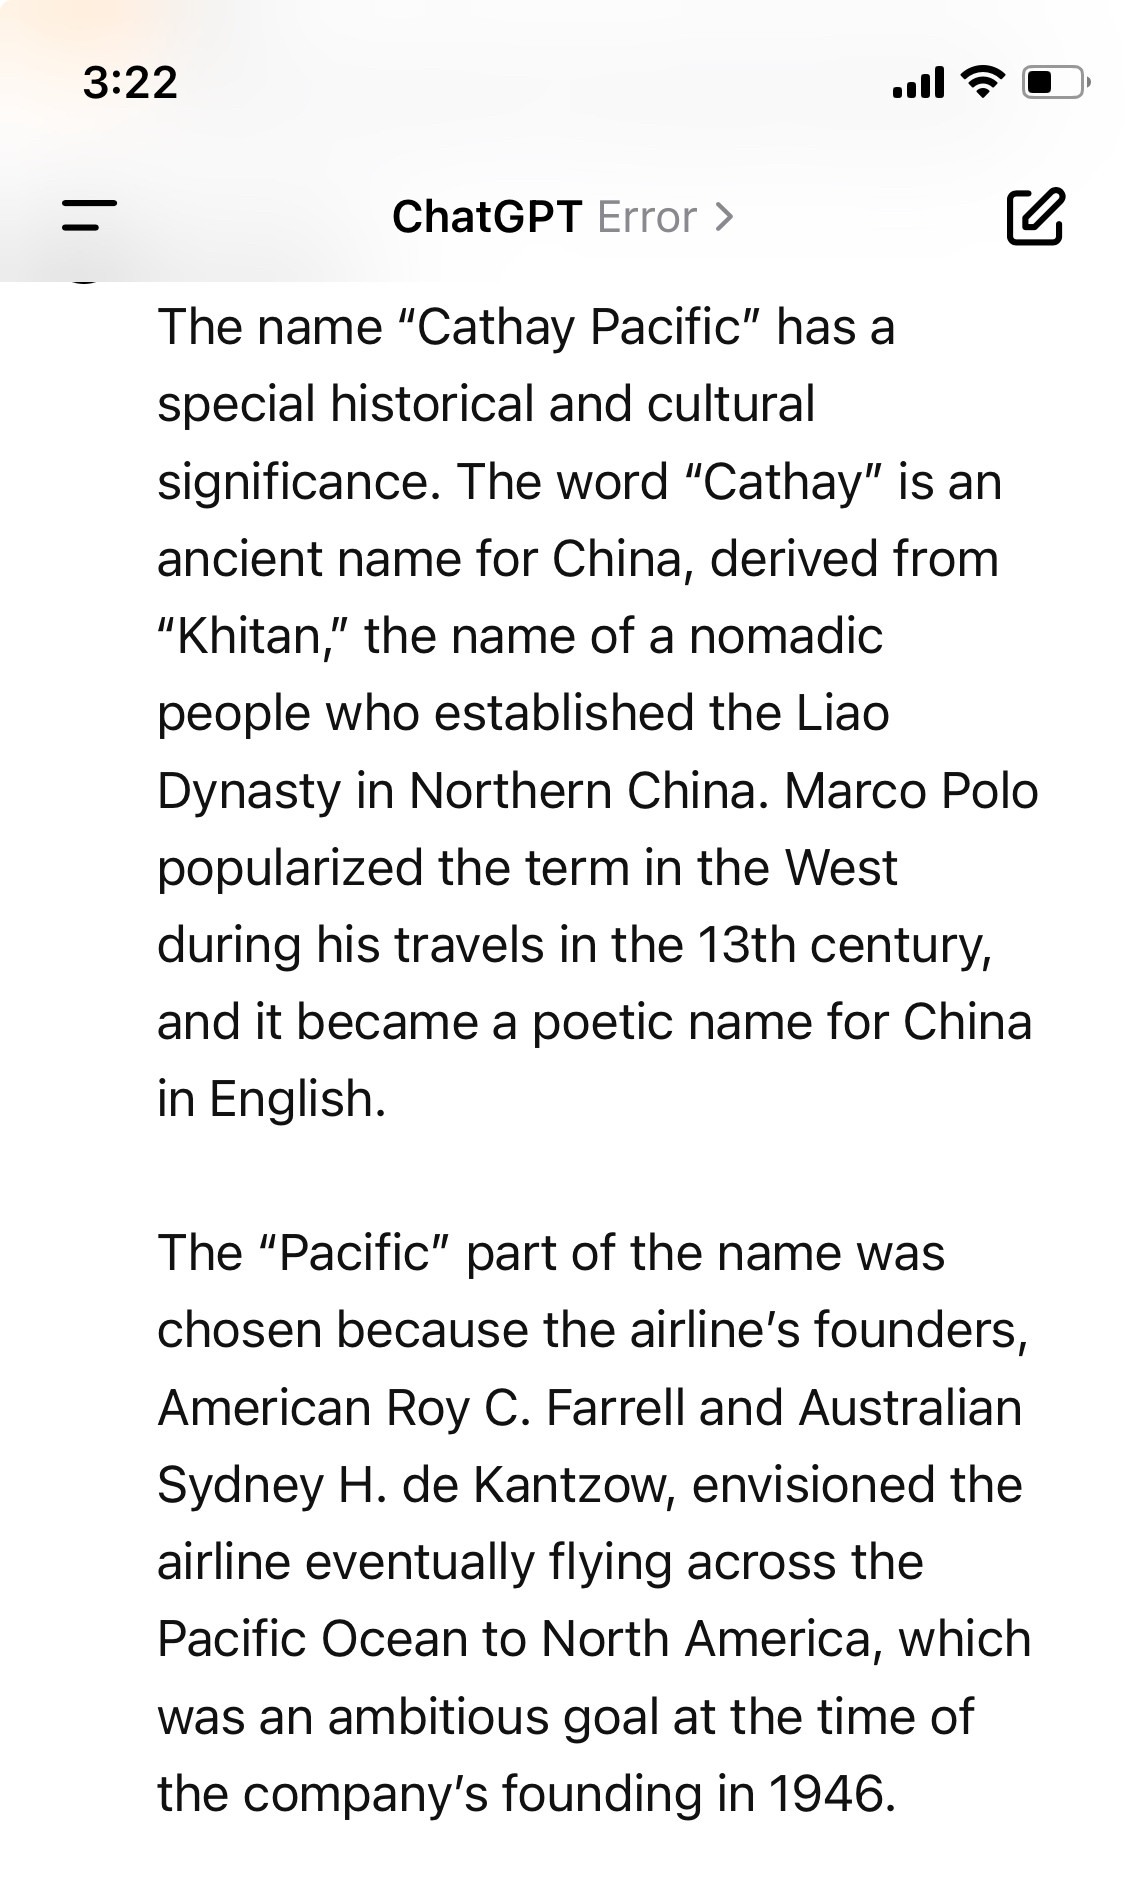
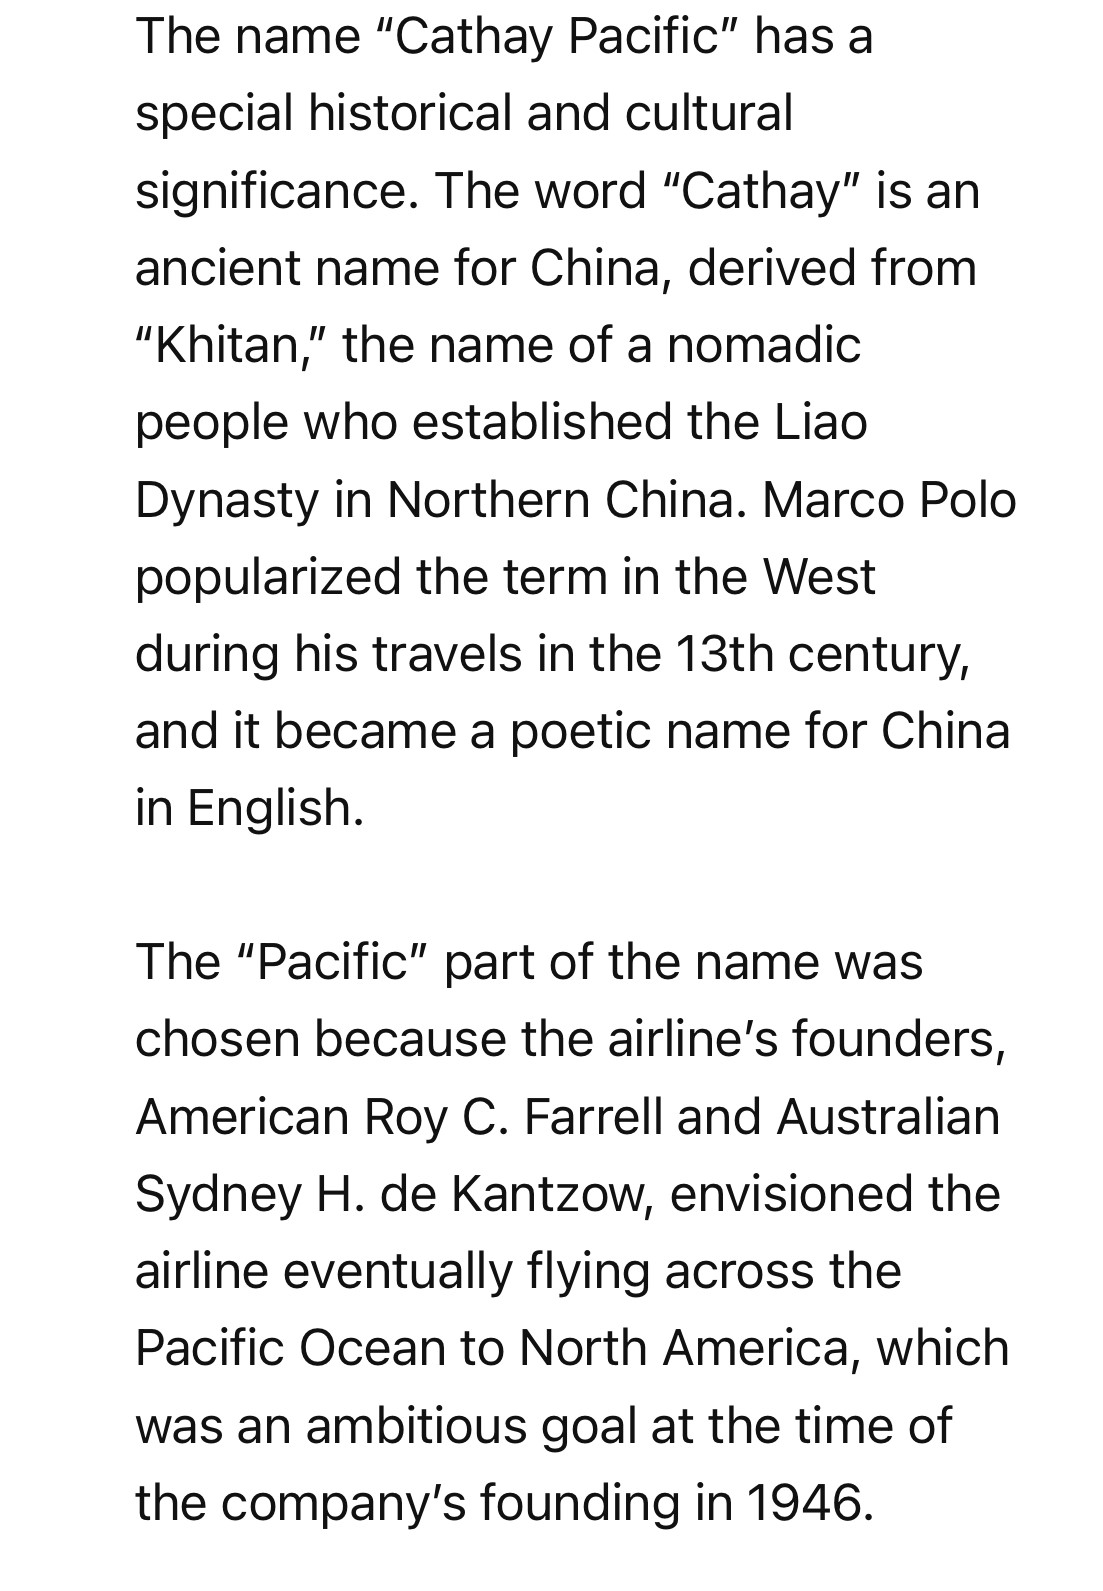
ss
ss

diff --git a/content/post/2024-09-07-cathay-parcific-airline/index.html b/content/post/2024-09-07-cathay-parcific-airline/index.html
@@ -12,5 +12,5 @@ tags: []
 <p>I took the airline two times from Wuhan to Hongkong; and last summer, I found a nice deal even from San Francisco to Hongkong. At that time, I did not know the Chinese name of it. Recently I got this news from <code>wechat</code> moment:
 <img src="/image/chatGPT_CathayPercific.JPG" /></p>
 <p>It prompts me to think about why its Chinese name is GUOTAI; the answer from <code>ChatGPT</code> is as follows:</p>
-<p><img src="/image/chatGPT_CathayPercific_1.JPG" /><img src="/image/chatGPT_CathayPercific_2.JPG" /></p>
+<p><img src="/image/chatGPT_CathayPercific_2.JPG" /><img src="/image/chatGPT_CathayPercific_1.JPG" /></p>
 <p>With that said, the chinese name should be <code>国太</code> instead of <code>国泰</code>.</p>
